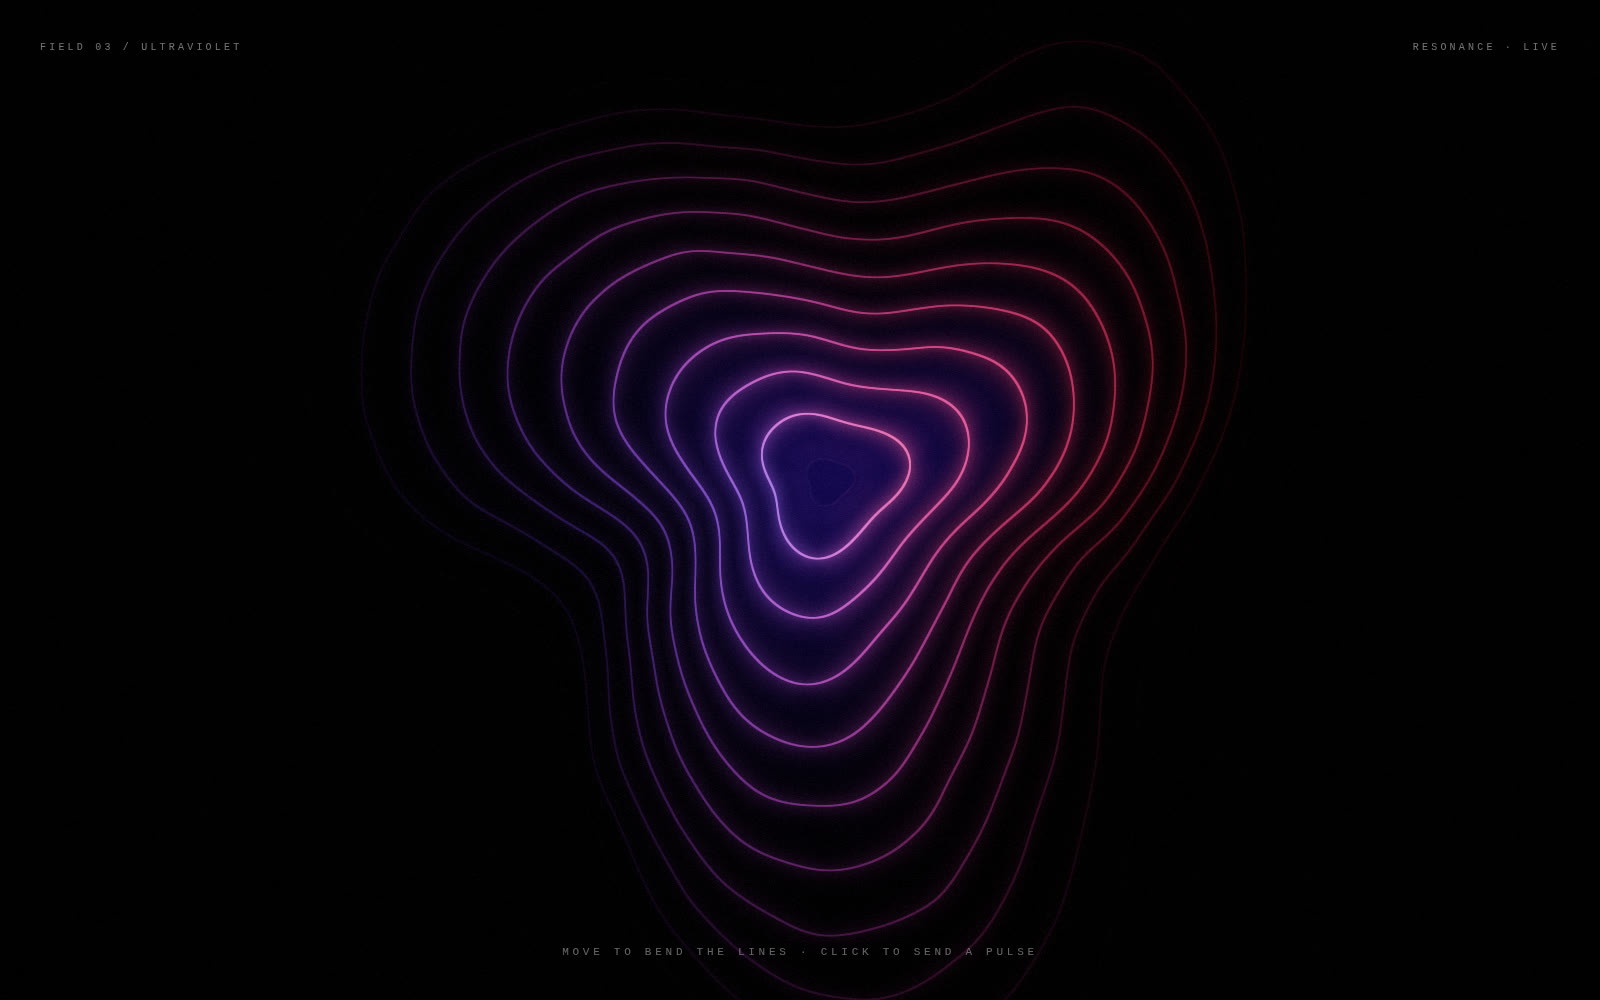
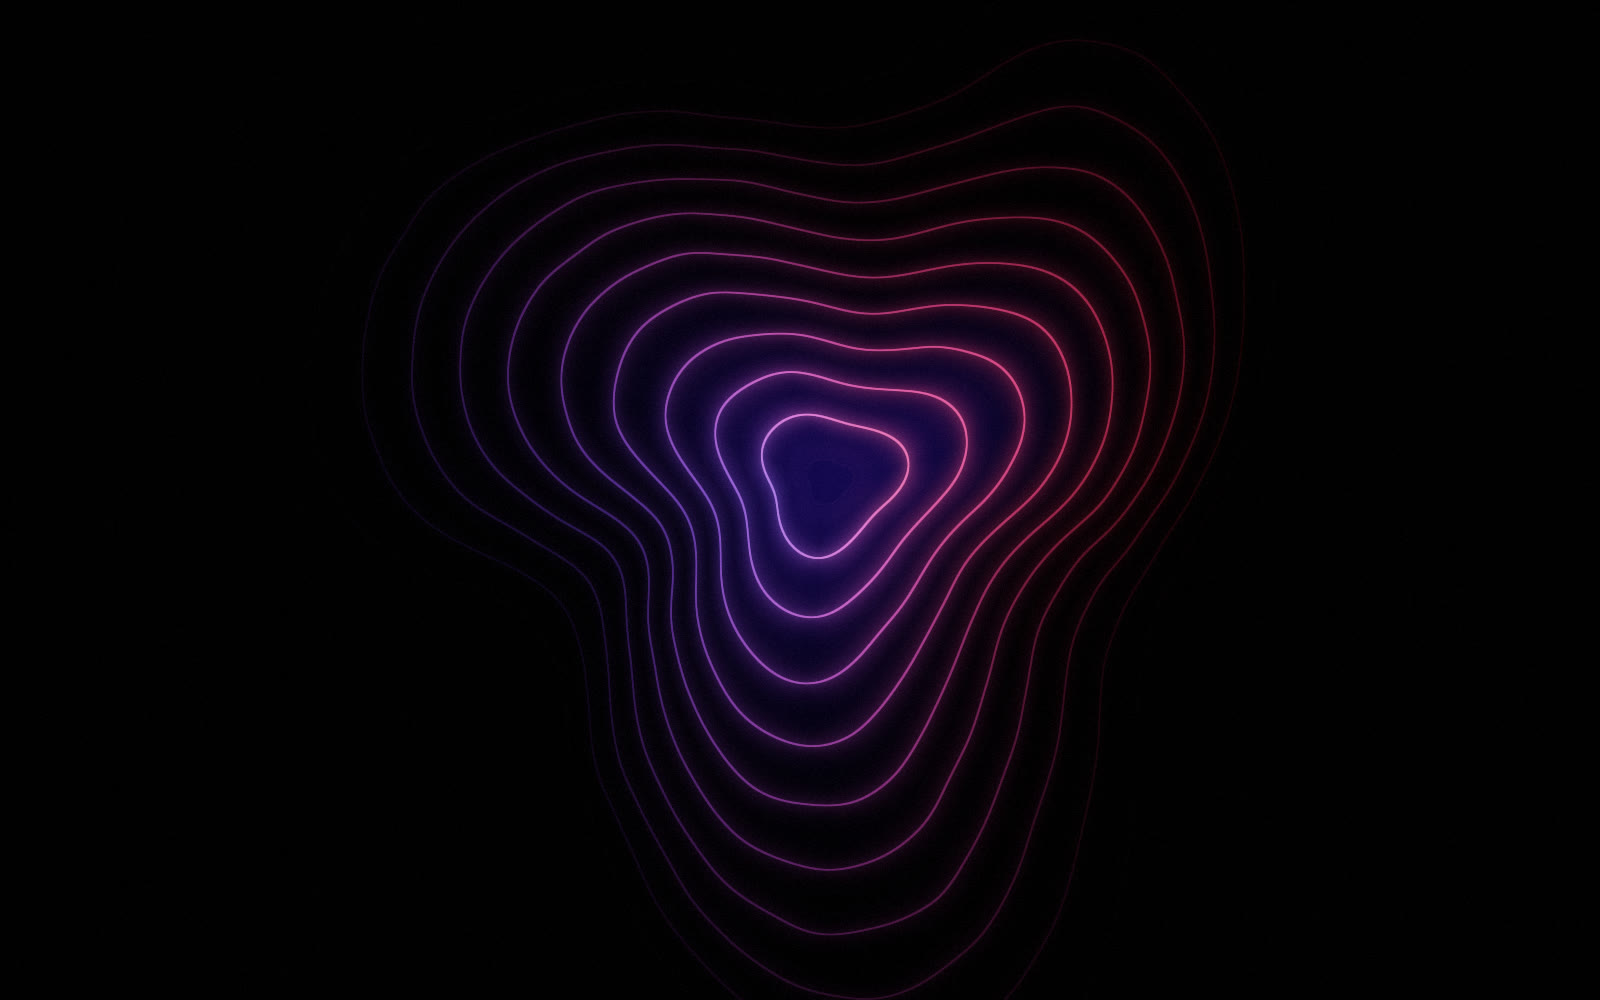
isoline-bloom: strip to just the shader
Drop the studio demo, the overlay text in the default demo and the children
overlay slot; the demo now renders the bare shader. Thumbnail re-captured
without text.

Claude-Session: https://claude.ai/code/session_01Bs5H87xZhman35RbcxQhrK

diff --git a/components/isoline-bloom/isoline-bloom.tsx b/components/isoline-bloom/isoline-bloom.tsx
@@ -360,8 +360,6 @@ export type IsolineBloomProps = {
   touch?: "scroll" | "draw"
   /** Device-pixel-ratio cap. The shader is per-pixel, so 2 is plenty. */
   maxDpr?: number
-  /** Content laid over the field. Pointer events pass through unless opted in. */
-  children?: React.ReactNode
   className?: string
 }
 
@@ -372,7 +370,6 @@ export default function IsolineBloom({
   interactive = true,
   touch = "scroll",
   maxDpr = 2,
-  children,
   className = "",
 }: IsolineBloomProps) {
   const rootRef = React.useRef<HTMLElement>(null)
@@ -521,8 +518,6 @@ export default function IsolineBloom({
     }
     const onDown = (e: PointerEvent) => {
       if (!interactive || e.button > 0) return
-      // Let buttons and links in the overlay keep their clicks.
-      if ((e.target as HTMLElement | null)?.closest("a,button,input,textarea,select,label,[role=button]")) return
       const [x, y] = toUv(e)
       targetX = x
       targetY = y
@@ -684,9 +679,6 @@ export default function IsolineBloom({
       ) : (
         <canvas ref={canvasRef} aria-hidden="true" className="absolute inset-0 block h-full w-full" />
       )}
-      {children ? (
-        <div className="pointer-events-none relative z-10 flex h-full w-full flex-col">{children}</div>
-      ) : null}
     </section>
   )
 }

diff --git a/components/isoline-bloom/demo.tsx b/components/isoline-bloom/demo.tsx
@@ -7,20 +7,7 @@ export default function Demo() {
     // w-full matters: 21st centres demos in a flex wrapper, and a flex item
     // left at width:auto shrinks the canvas to 0px wide.
     <div className="relative w-full">
-      <IsolineBloom>
-        <div className="flex h-full flex-col justify-between p-6 sm:p-10">
-          <div className="flex items-center justify-between font-mono text-[10px] uppercase tracking-[0.32em] text-white/45">
-            <span>field 03 / ultraviolet</span>
-            <span className="hidden sm:inline">resonance · live</span>
-          </div>
-
-          <div className="flex flex-col items-center text-center">
-            <p className="font-mono text-[11px] uppercase tracking-[0.34em] text-white/40">
-              move to bend the lines · click to send a pulse
-            </p>
-          </div>
-        </div>
-      </IsolineBloom>
+      <IsolineBloom />
     </div>
   )
 }

diff --git a/components/isoline-bloom/README.md b/components/isoline-bloom/README.md
@@ -26,9 +26,6 @@ import IsolineBloom from "@/components/ui/isoline-bloom"
 <IsolineBloom />                                     // full-bleed ultraviolet
 <IsolineBloom preset="solar-flare" height="520px" /> // inside a section
 <IsolineBloom params={{ lobes: 5, rings: 18, flow: -0.3 }} />
-<IsolineBloom>
-  <h1 className="m-auto text-white">Overlay content</h1>
-</IsolineBloom>
 ```
 
 ## Props
@@ -41,7 +38,6 @@ import IsolineBloom from "@/components/ui/isoline-bloom"
 | `interactive` | `true` | Pointer lenses the lines; click sends a pulse. |
 | `touch` | `"scroll"` | `scroll` keeps the page scrollable on touch; `draw` takes the gesture. |
 | `maxDpr` | `2` | Device-pixel-ratio cap. |
-| `children` | — | Overlay. Pointer events pass through unless a child sets `pointer-events-auto`; clicks on links and buttons never fire a pulse. |
 | `className` | `""` | Appended to the root. |
 
 `ISOLINE_DEFAULTS` and `ISOLINE_PRESETS` are exported; a preset is just a
@@ -59,8 +55,6 @@ partial overlay, so `{ ...ISOLINE_PRESETS.abyss, rings: 20 }` is a valid `params
 - **Pointer** — `pull`, `lens`, `lensRadius`, `lensGlow`, `energy`,
   `pulseSpeed`, `pulseGain`.
 - **Post** — `speed`, `vignette`, `grain`.
-
-The `studio` demo has sliders for the main ones and prints the matching JSX.
 
 ## Notes
 
